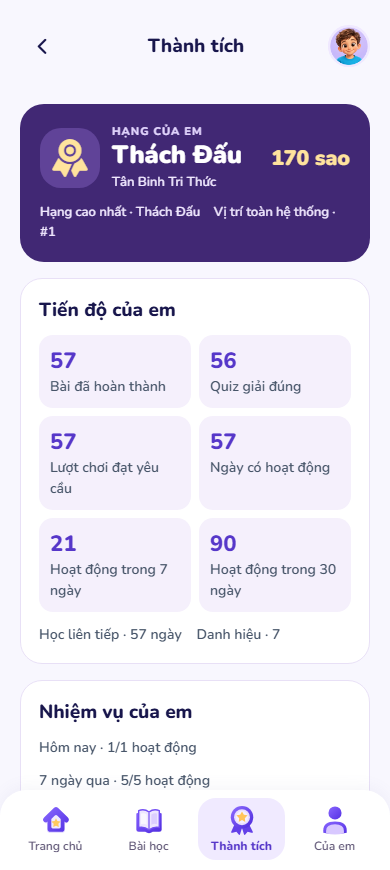
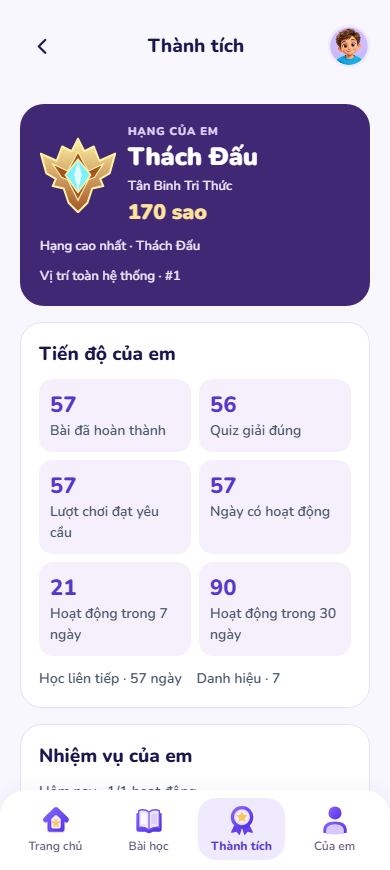
feat: add tier emblems and refine student profiles

diff --git a/apps/student-mobile/src/features/student-profile/ProfilePanel.tsx b/apps/student-mobile/src/features/student-profile/ProfilePanel.tsx
@@ -13,7 +13,7 @@ import { useStudentProfile } from './useStudentProfile';
 export function ProfilePanel({ owner, logout }: { owner: string; logout: () => Promise<void> }) {
   const router = useRouter();
   const profile = useStudentProfile(owner);
-  const [sheet, setSheet] = useState<'edit' | 'logout' | null>(null);
+  const [sheet, setSheet] = useState<'edit' | 'privacy' | 'logout' | null>(null);
   const [leaving, setLeaving] = useState(false);
   const [logoutError, setLogoutError] = useState(false);
   const logoutLock = useRef(false);
@@ -28,15 +28,17 @@ export function ProfilePanel({ owner, logout }: { owner: string; logout: () => P
     <View style={s.card}>
       <View style={s.row}>
         <StudentAvatar id={value?.avatar ?? 'star'} size={64} />
-        <View style={{ flex: 1, minWidth: 150 }}>
+        <View style={{ flex: 1, minWidth: 130, gap: 3 }}>
           <Text accessibilityRole="header" style={s.heading}>{value?.displayName ?? 'Hồ sơ của em'}</Text>
           {value?.gradeLevel != null && <Text style={s.body}>Khối {value.gradeLevel}</Text>}
           {value?.classrooms.map(room => <Text key={room.id} style={s.body}>{room.name}</Text>)}
-          {value?.joinedAt && <Text style={s.body}>Tham gia {new Date(value.joinedAt).toLocaleDateString('vi-VN')}</Text>}
+          {value?.joinedAt && <Text style={s.body}>Tham gia {new Date(value.joinedAt).toLocaleDateString('vi-VN', { timeZone: 'Asia/Ho_Chi_Minh' })}</Text>}
         </View>
       </View>
-      {value && <AppButton title="Sửa hồ sơ" variant="secondary" onPress={() => setSheet('edit')} />}
-      <AppButton title="Quyền riêng tư" variant="ghost" onPress={() => router.push('/privacy')} />
+      <View style={s.row}>
+        {value && <AppButton title="Sửa hồ sơ" variant="secondary" style={s.profileAction} onPress={() => setSheet('edit')} />}
+        <AppButton title="Quyền riêng tư" variant="ghost" style={s.profileAction} onPress={() => setSheet('privacy')} />
+      </View>
       <AppButton title="Đăng xuất" variant="outlined" style={s.logoutButton} textStyle={s.logoutLabel}
         icon={<Ionicons name="log-out-outline" size={23} color={COLORS.errorText} accessible={false} aria-hidden />}
         onPress={() => { setLogoutError(false); setSheet('logout'); }} />
@@ -50,6 +52,13 @@ export function ProfilePanel({ owner, logout }: { owner: string; logout: () => P
       : <ActivityIndicator accessibilityLabel="Đang tải hồ sơ" />}
     {sheet === 'edit' && value && <ProfileEditor profile={value} onClose={() => setSheet(null)}
       onSave={updated => { profile.accept(updated); setSheet(null); }} />}
+    {sheet === 'privacy' && <LessonSheet title="Quyền riêng tư" compact onClose={() => setSheet(null)}>
+      <Text style={s.body}>{!value ? 'Em có thể kiểm tra tùy chọn hiển thị sau khi tải được hồ sơ.' : value.leaderboardVisible
+        ? `Em đang xuất hiện trên bảng xếp hạng với bí danh ${value.publicAlias}.`
+        : 'Hồ sơ của em đang ẩn khỏi bảng xếp hạng.'}</Text>
+      <Text style={s.body}>Khi tham gia, bảng xếp hạng chỉ hiển thị bí danh, hình đại diện, hạng và sao của em.</Text>
+      {value && <AppButton title="Đổi tùy chọn hiển thị" variant="secondary" onPress={() => setSheet('edit')} />}
+    </LessonSheet>}
     {sheet === 'logout' && <LessonSheet title="Đăng xuất" compact onClose={() => { if (!leaving) setSheet(null); }}>
       <Text style={s.body}>Em có muốn đăng xuất khỏi tài khoản này?</Text>
       {logoutError && <Text accessibilityRole="alert" style={s.error}>Chưa đăng xuất được. Em thử lại nhé.</Text>}

diff --git a/apps/student-mobile/src/features/student-profile/ProfileCards.tsx b/apps/student-mobile/src/features/student-profile/ProfileCards.tsx
@@ -3,6 +3,7 @@ import { StyleSheet, Text, View } from 'react-native';
 import { Ionicons } from '@expo/vector-icons';
 import { COLORS, FONTS } from '../../constants/theme';
 import type { StudentProfile } from './profileApi';
+import { RankEmblem } from './RankEmblem';
 
 export const avatars = [
   { id: 'star', icon: 'star', name: 'Sao nhỏ', color: '#7A4B00', background: '#FFF0BC' },
@@ -26,13 +27,13 @@ export function ProfileRankCard({ profile }: { profile: StudentProfile }) {
   const title = profile.titles.find(t => t.id === profile.selectedTitle);
   return <View style={styles.rankCard}>
     <View style={styles.heroRow}>
-      <View style={styles.medal} accessible={false} aria-hidden><Ionicons name="ribbon" size={40} color="#FFE39D" /></View>
+      <RankEmblem name={rank.name} />
       <View style={styles.grow}>
         <Text style={styles.rankCaption}>HẠNG CỦA EM</Text>
         <Text accessibilityRole="header" style={styles.rank}>{rank.name}</Text>
         {title && <Text style={styles.light}>{title.name}</Text>}
+        <Text style={styles.stars}>{stars} sao</Text>
       </View>
-      <Text style={styles.stars}>{stars} sao</Text>
     </View>
     {rank.goal > 0 && <>
       <View accessibilityRole="progressbar" accessibilityLabel="Tiến độ lên hạng" accessibilityValue={{ min: 0, max: rank.goal, now: rank.progress }}
@@ -40,7 +41,8 @@ export function ProfileRankCard({ profile }: { profile: StudentProfile }) {
         style={styles.track}><View style={[styles.bar, { width: `${100 * rank.progress / rank.goal}%` }]} /></View>
       <Text style={styles.light}>Còn {next} sao để lên bậc tiếp theo</Text>
     </>}
-    <Text style={styles.light}>Hạng cao nhất · {highestRank}{position ? `    Vị trí toàn hệ thống · #${position}` : ''}</Text>
+    <Text style={styles.light}>Hạng cao nhất · {highestRank}</Text>
+    {position !== null && <Text style={styles.light}>Vị trí toàn hệ thống · #{position}</Text>}
   </View>;
 }
 
@@ -69,6 +71,7 @@ export const profileStyles = StyleSheet.create({
   error: { color: '#8C243D', fontFamily: FONTS.bold, fontSize: 14 },
   logoutButton: { backgroundColor: '#FFF5F5', borderColor: '#F3BDBD', borderWidth: 1 },
   logoutLabel: { color: COLORS.errorText, fontFamily: FONTS.extraBold },
+  profileAction: { flexGrow: 1, flexBasis: 122, paddingHorizontal: 12 },
 });
 
 const styles = StyleSheet.create({
@@ -76,8 +79,7 @@ const styles = StyleSheet.create({
   avatar: { alignItems: 'center', justifyContent: 'center', borderRadius: 50 },
   rankCard: { gap: 10, borderRadius: 24, padding: 20, backgroundColor: '#412874' },
   heroRow: { flexDirection: 'row', alignItems: 'center', gap: 12, flexWrap: 'wrap' },
-  medal: { width: 60, height: 60, borderRadius: 21, backgroundColor: '#604398', alignItems: 'center', justifyContent: 'center' },
-  grow: { flex: 1, minWidth: 120 },
+  grow: { flex: 1, minWidth: 135, gap: 2 },
   rankCaption: { color: '#E1D4FC', fontFamily: FONTS.extraBold, fontSize: 11, letterSpacing: 1 },
   rank: { color: '#FFF', fontFamily: FONTS.black, fontSize: 25, lineHeight: 33 },
   stars: { color: '#FFE39D', fontFamily: FONTS.black, fontSize: 21 },

diff --git a/apps/student-mobile/src/features/student-profile/RankEmblem.tsx b/apps/student-mobile/src/features/student-profile/RankEmblem.tsx
@@ -1,0 +1,39 @@
+import React, { useId } from 'react';
+import { Image, View } from 'react-native';
+import Svg, { Defs, LinearGradient, Path, Stop } from 'react-native-svg';
+
+const metals = {
+  'Đồng': require('../../../assets/ranks/bronze.png'),
+  'Bạc': require('../../../assets/ranks/silver.png'),
+  'Vàng': require('../../../assets/ranks/gold.png'),
+  'Bạch Kim': require('../../../assets/ranks/platinum.png'),
+  'Kim Cương': require('../../../assets/ranks/diamond.png'),
+} as const;
+
+const crests = {
+  'Tinh Anh': ['#F3BDFF', '#642494', '#D480FF', 'M9 28 25 34 48 7 71 34 87 28 77 53 62 58 48 88 34 58 19 53Z'],
+  'Cao Thủ': ['#FFE3A0', '#963D13', '#FFAA3A', 'M5 21 27 32 38 14 48 3 58 14 69 32 91 21 82 47 68 58 63 73 48 90 33 73 28 58 14 47Z'],
+  'Đại Cao Thủ': ['#FFF2AB', '#953A21', '#FB6750', 'M1 17 22 26 34 12 48 3 62 12 74 26 95 17 84 50 70 57 77 68 62 71 48 94 34 71 19 68 26 57 12 50Z'],
+  'Chiến Tướng': ['#FFDEB1', '#902A43', '#FA668B', 'M3 18 25 31 32 9 48 18 64 9 71 31 93 18 88 44 74 53 75 66 64 65 48 92 32 65 21 66 22 53 8 44Z'],
+  'Chiến Thần': ['#CAFCFF', '#214C9A', '#66DFFF', 'M3 25 21 35 28 13 41 19 48 2 55 19 68 13 75 35 93 25 82 52 68 59 67 74 48 94 29 74 28 59 14 52Z'],
+  'Thách Đấu': ['#FFF2A6', '#A45325', '#7AF2FF', 'M1 21 21 30 28 12 40 18 48 2 56 18 68 12 75 30 95 21 88 46 76 53 80 62 66 65 60 83 48 95 36 83 30 65 16 62 20 53 8 46Z'],
+} as const;
+
+export function RankEmblem({ name, size = 76 }: { name: string; size?: number }) {
+  const id = useId().replace(/[^\w-]/g, '');
+  const tier = name.replace(/ [IV]+$/, '');
+  const source = metals[tier as keyof typeof metals];
+  const [light, dark, gem, crest] = crests[tier as keyof typeof crests] ?? crests['Tinh Anh'];
+  return <View accessible={false} aria-hidden style={{ width: size, height: size, flexShrink: 0 }}>
+    {source ? <Image source={source} style={{ width: size, height: size }} resizeMode="contain" /> :
+      <Svg width={size} height={size} viewBox="0 0 96 96">
+        <Defs><LinearGradient id={id} x1="0%" y1="0%" x2="0%" y2="100%">
+          <Stop offset="0" stopColor={light} /><Stop offset="1" stopColor={dark} />
+        </LinearGradient></Defs>
+        <Path d={crest} fill={`url(#${id})`} stroke={light} strokeWidth="2.5" strokeLinejoin="round" />
+        <Path d="M16 34 35 43 48 19 61 43 80 34 69 51 61 54 48 80 35 54 27 51Z" fill={dark} stroke={light} strokeWidth="1.5" />
+        <Path d="M48 28 64 48 48 70 32 48Z" fill={gem} stroke={light} strokeWidth="2" />
+        <Path d="M48 30 53 48 48 68 43 48Z" fill="#FFF" opacity=".8" />
+      </Svg>}
+  </View>;
+}

diff --git a/apps/student-mobile/src/app/(tabs)/achievements.tsx b/apps/student-mobile/src/app/(tabs)/achievements.tsx
@@ -10,6 +10,7 @@ import { RecoveryNotice } from '../../components/ui/RecoveryNotice';
 import { ProfileRankCard, ProfileStats, profileStyles as s, StudentAvatar } from '../../features/student-profile/ProfileCards';
 import { profileApi, type Leaderboard } from '../../features/student-profile/profileApi';
 import { useStudentProfile } from '../../features/student-profile/useStudentProfile';
+import { RankEmblem } from '../../features/student-profile/RankEmblem';
 
 export default function AchievementsScreen() {
   const auth = useContext(AuthContext);
@@ -89,7 +90,10 @@ function Achievements({ owner }: { owner?: string }) {
             {current.data.entries.length === 0 && <Text style={s.body}>Chưa có bạn nào được xếp hạng.</Text>}
             {current.data.entries.map(item => <View key={item.alias} style={[s.row, s.chip]}>
               <Text style={s.heading}>#{item.position}</Text><StudentAvatar id={item.avatar} size={32} />
-              <View style={{ flex: 1, minWidth: 105 }}><Text style={s.body}>{item.alias}{item.self ? ' (em)' : ''}</Text><Text style={s.body}>{item.rank.name}</Text></View>
+              <View style={{ flex: 1, minWidth: 105 }}>
+                <Text style={s.body}>{item.alias}{item.self ? ' (em)' : ''}</Text>
+                <View style={[s.row, { gap: 5 }]}><RankEmblem name={item.rank.name} size={25} /><Text style={s.body}>{item.rank.name}</Text></View>
+              </View>
               <Text style={s.body}>{item.stars} sao</Text>
             </View>)}
           </> : <ActivityIndicator accessibilityLabel="Đang tải bảng xếp hạng" />}

diff --git a/docs/engineering/student-profile-review.md b/docs/engineering/student-profile-review.md
@@ -25,6 +25,7 @@ Các ảnh dưới đây được chụp bằng Chromium ở 390 px và 1440 px 
 | Màn hình | Ảnh bấm để xem đầy đủ |
 | --- | --- |
 | Hồ sơ và tiến độ lên hạng | [Đồng III, 1/3 sao](../media/screenshots/pr60-profile-rank-mobile.png) |
+| Hồ sơ trên màn nhỏ | [Chỉnh sửa](../media/screenshots/pr60-profile-edit-mobile.png) · [Quyền riêng tư](../media/screenshots/pr60-profile-privacy-mobile.png) · [Xác nhận đăng xuất](../media/screenshots/pr60-profile-logout-mobile.png) |
 | Rank cao và thống kê | [Thách Đấu trên màn nhỏ](../media/screenshots/pr60-challenger-mobile.png) · [Thách Đấu trên desktop](../media/screenshots/pr60-rank-desktop.png) |
 | Nhiệm vụ, danh hiệu và lịch sử | [Nhiệm vụ và đường dẫn vào hoạt động](../media/screenshots/pr60-missions-mobile.png) · [Danh hiệu](../media/screenshots/pr60-titles-mobile.png) · [Lịch sử nhận sao](../media/screenshots/pr60-star-history.png) |
 | Xếp hạng theo bí danh | [Toàn hệ thống](../media/screenshots/pr60-leaderboard-global.png) · [Lớp 3A](../media/screenshots/pr60-leaderboard-class.png) |
@@ -34,6 +35,7 @@ Các ảnh dưới đây được chụp bằng Chromium ở 390 px và 1440 px 
 
 - Mũi tên bên cạnh Đăng nhập là trang trí. Playwright dùng tên truy cập `Đăng nhập` trên cả desktop và mobile. Các kiểm tra phiên, đăng xuất, điều hướng lại và hết hạn vẫn được giữ.
 - Thanh tiến độ rank công bố giá trị hiện tại và tối đa cho trình đọc màn hình trên web.
+- Huy hiệu thay đổi theo bậc ở hồ sơ, thành tích và bảng xếp hạng. Nút Quyền riêng tư mở hộp thoại về quyền xuất hiện trên bảng, có đường dẫn tới cài đặt.
 - Student Profile chuyển migration chưa phát hành sang V32. Flyway trên PostgreSQL 16 đã kiểm tra hai đường nâng cấp từ V28 và từ V31 của PR #59, bao gồm bảo toàn dữ liệu, kiểm tra checksum và backup/restore. Tích hợp #59 trước rồi đồng bộ #60 theo [thứ tự migration](student-profile-rewards.md#integration).
 
 Skills applied: mathvision-workflow, mathvision-quality, mathvision-review, mathvision-backend, fixing-accessibility.

diff --git a/docs/engineering/student-profile-rewards.md b/docs/engineering/student-profile-rewards.md
@@ -22,6 +22,8 @@ Starting at Đồng III, the six pre-master tiers consume 9, 12, 16, 25, 25 and 
 
 Rank names and master subdivisions were cross-checked against the official Garena update. Top 200 and the specified promotion thresholds are MathVision Kids product rules. [Garena update](https://lienquan.garena.vn/chi-tiet-ban-cap-nhat-phien-ban-ngay-hoi-lien-quan/)
 
+The current ladder starts at Đồng III. The five emblems from Đồng through Kim Cương are cropped and resized from Sinestesia's **Ranks Coins and More**, released under CC0. Tinh Anh through Thách Đấu use original vector emblems. The profile and both leaderboards share the same artwork for each tier. [OpenGameArt asset and license](https://opengameart.org/content/ranks-coins-and-more)
+
 ## UX evidence
 
 The installed last30days engine ran for 14 October–13 November 2026. Reddit retrieval was unreachable and Hacker News produced one low-signal result, with no ranked evidence surviving. The design uses the existing app's palette and typography, a visible progress bar, and direct activity links. Private-by-default rankings and static, readable reward feedback follow the reviewed primary references. [Duolingo October 2026 update](https://blog.duolingo.com/october-2026-update/) · [Minecraft Education challenge](https://education.minecraft.net/en-us/challenges/minecraft-micro-models) · [ICO default settings design guidance](https://ico.org.uk/for-organisations/uk-gdpr-guidance-and-resources/childrens-information/childrens-code-guidance-and-resources/age-appropriate-design-a-code-of-practice-for-online-services/7-default-settings/)
